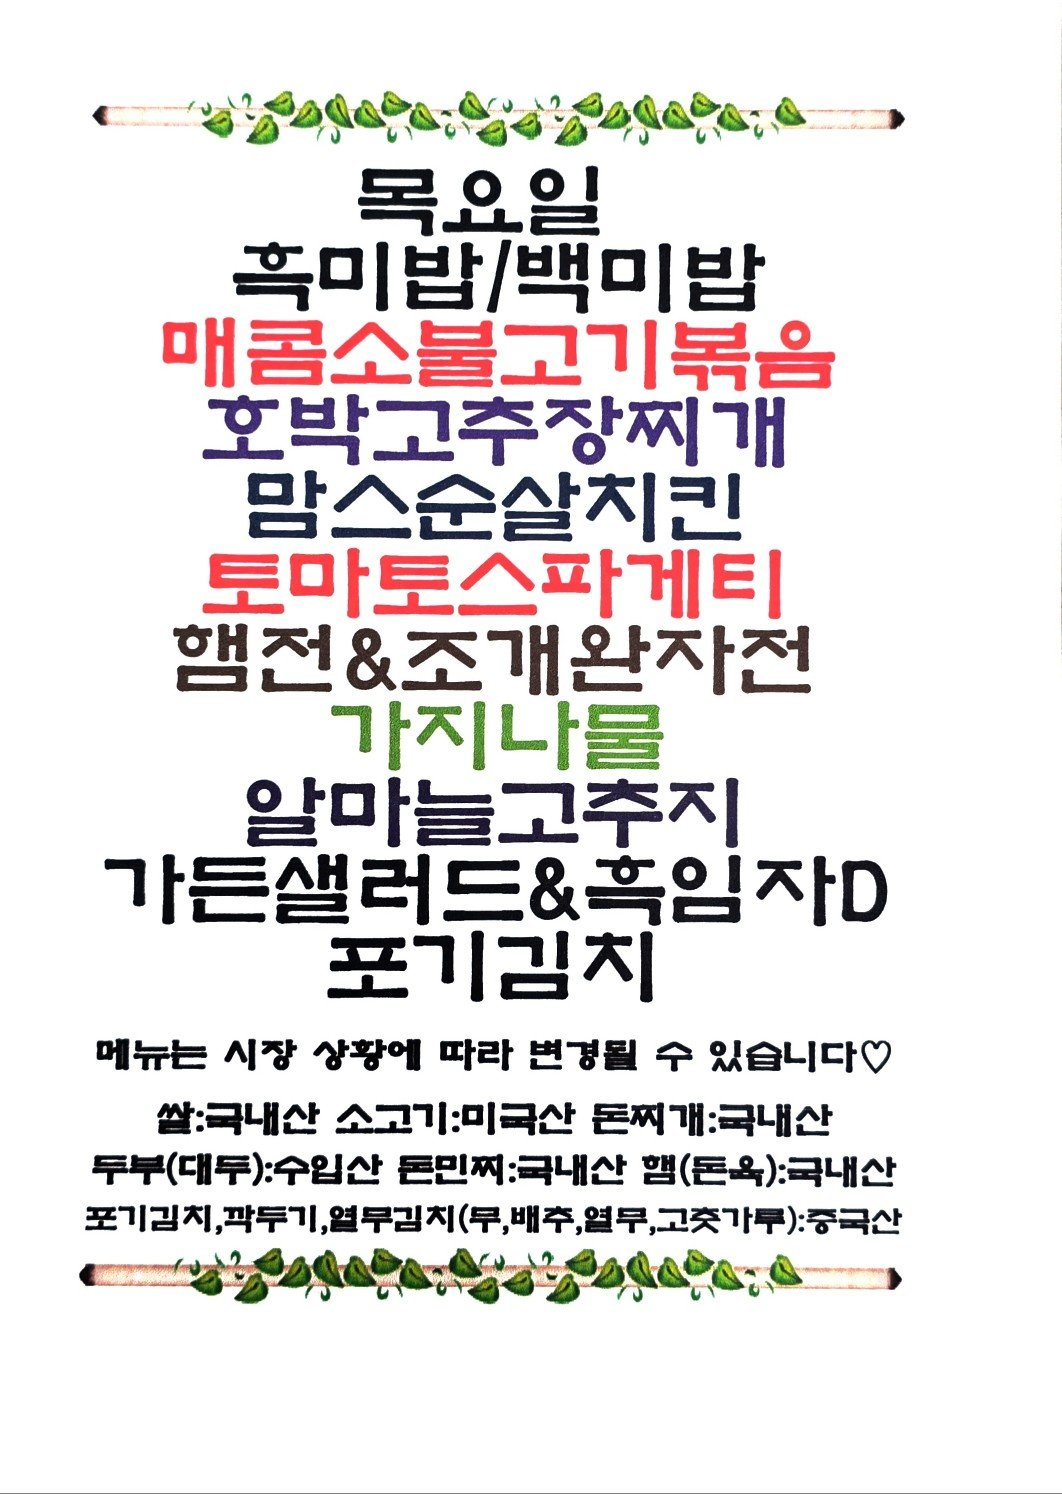
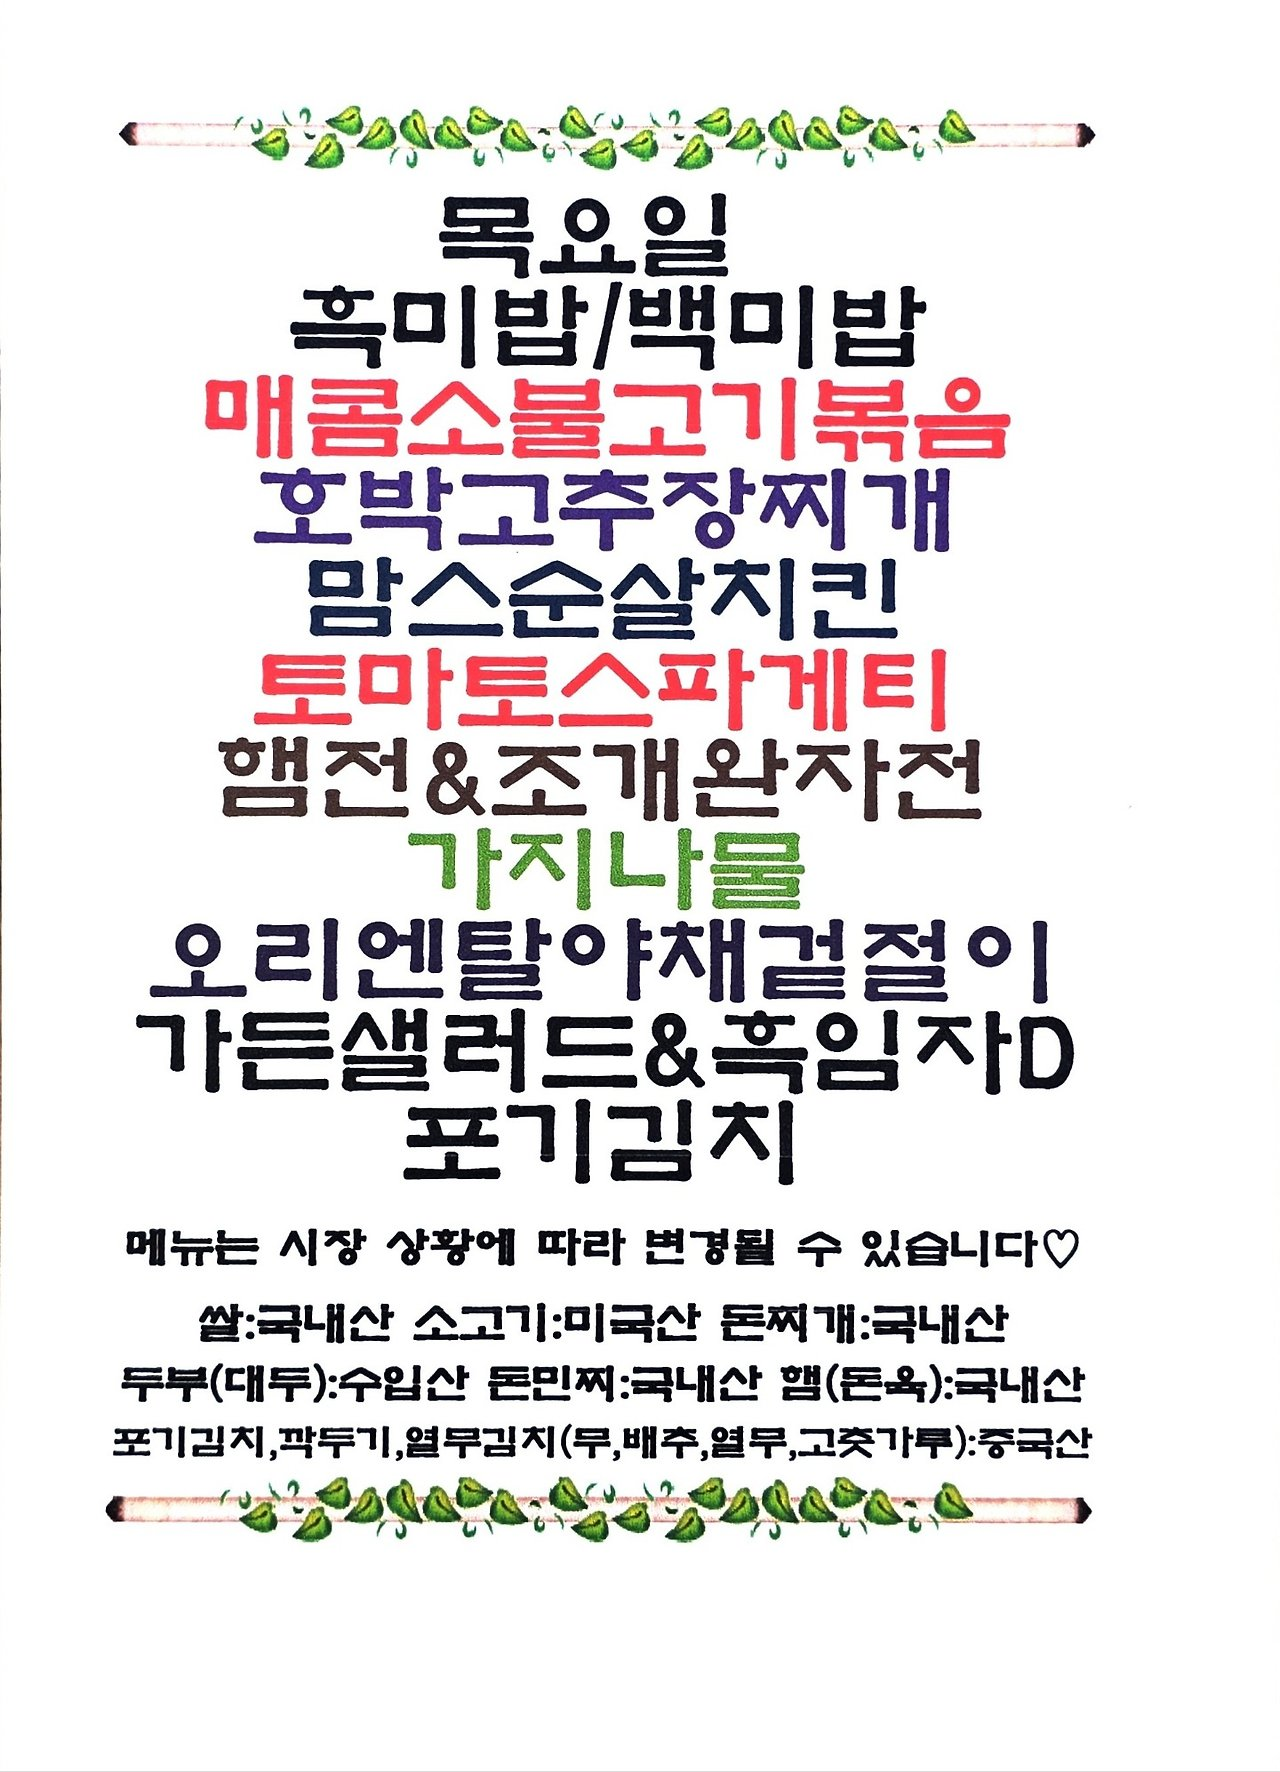
Update menu board assets

diff --git a/menu-today/index.html b/menu-today/index.html
@@ -209,7 +209,7 @@
 
     <section class="meta-bar">
       <div class="meta-card"><div class="meta-label">기준 날짜</div><div class="meta-value">2026년 9월 3일 목요일</div></div>
-      <div class="meta-card"><div class="meta-label">최종 가져온 시간</div><div class="meta-value">2026-09-03 09:33:10</div></div>
+      <div class="meta-card"><div class="meta-label">최종 가져온 시간</div><div class="meta-value">2026-09-03 09:48:17</div></div>
       <div class="meta-card"><div class="meta-label">확인 완료</div><div class="meta-value">9개 식당</div></div>
       <div class="meta-card"><div class="meta-label">준비중</div><div class="meta-value">3개 채널</div></div>
     </section>
@@ -305,7 +305,7 @@
             <div class="sub">스타밸리</div>
           </div>
         </div>
-        <div class="menu-inline-image"><img src="./images/starvalley-food4u-post.png" alt="스타밸리푸드포유 식단 이미지"></div><ul><li>호박고주장찌개</li><li>맘스순살치킨</li><li>토마토스파게티</li><li>램전 &amp; 조개완자전</li><li>가지나물</li><li>알마늘고주지</li><li>가든샐러드 &amp; 흑임자D</li><li>포기김치</li><li>흑미밥 / 백미밥</li><li>매콤소불고기볶음</li></ul>
+        <div class="menu-inline-image"><img src="./images/starvalley-food4u-post.png" alt="스타밸리푸드포유 식단 이미지"></div><ul><li>목요일</li><li>매콤소불고기볶음</li><li>호박고추장찌개</li><li>람스순살치킨</li><li>토마토스파게티</li><li>램전 &amp; 조개환자전</li><li>오리엔탈야채결절이</li><li>가든샐러드 &amp; 흑임자D</li><li>푸기김지</li><li>혹미밥 / 백미밥</li></ul>
       </article>
     </section>
 

diff --git a/guro-menu/index.html b/guro-menu/index.html
@@ -32,7 +32,7 @@
   </header>
   <section class="meta">
     <div><small>기준 날짜</small><strong>2026년 9월 3일 목요일</strong></div>
-    <div><small>최종 갱신</small><strong>2026-09-03 09:33:24</strong></div>
+    <div><small>최종 갱신</small><strong>2026-09-03 09:48:30</strong></div>
     <div><small>등록 식당</small><strong>5개</strong></div>
   </section>
   <div class="notice">공개 카카오 채널의 메뉴 이미지를 자동 수집하고 OCR로 정리합니다. 텍스트에 오타가 있을 수 있으니 식단 이미지를 함께 확인해 주세요.</div>
